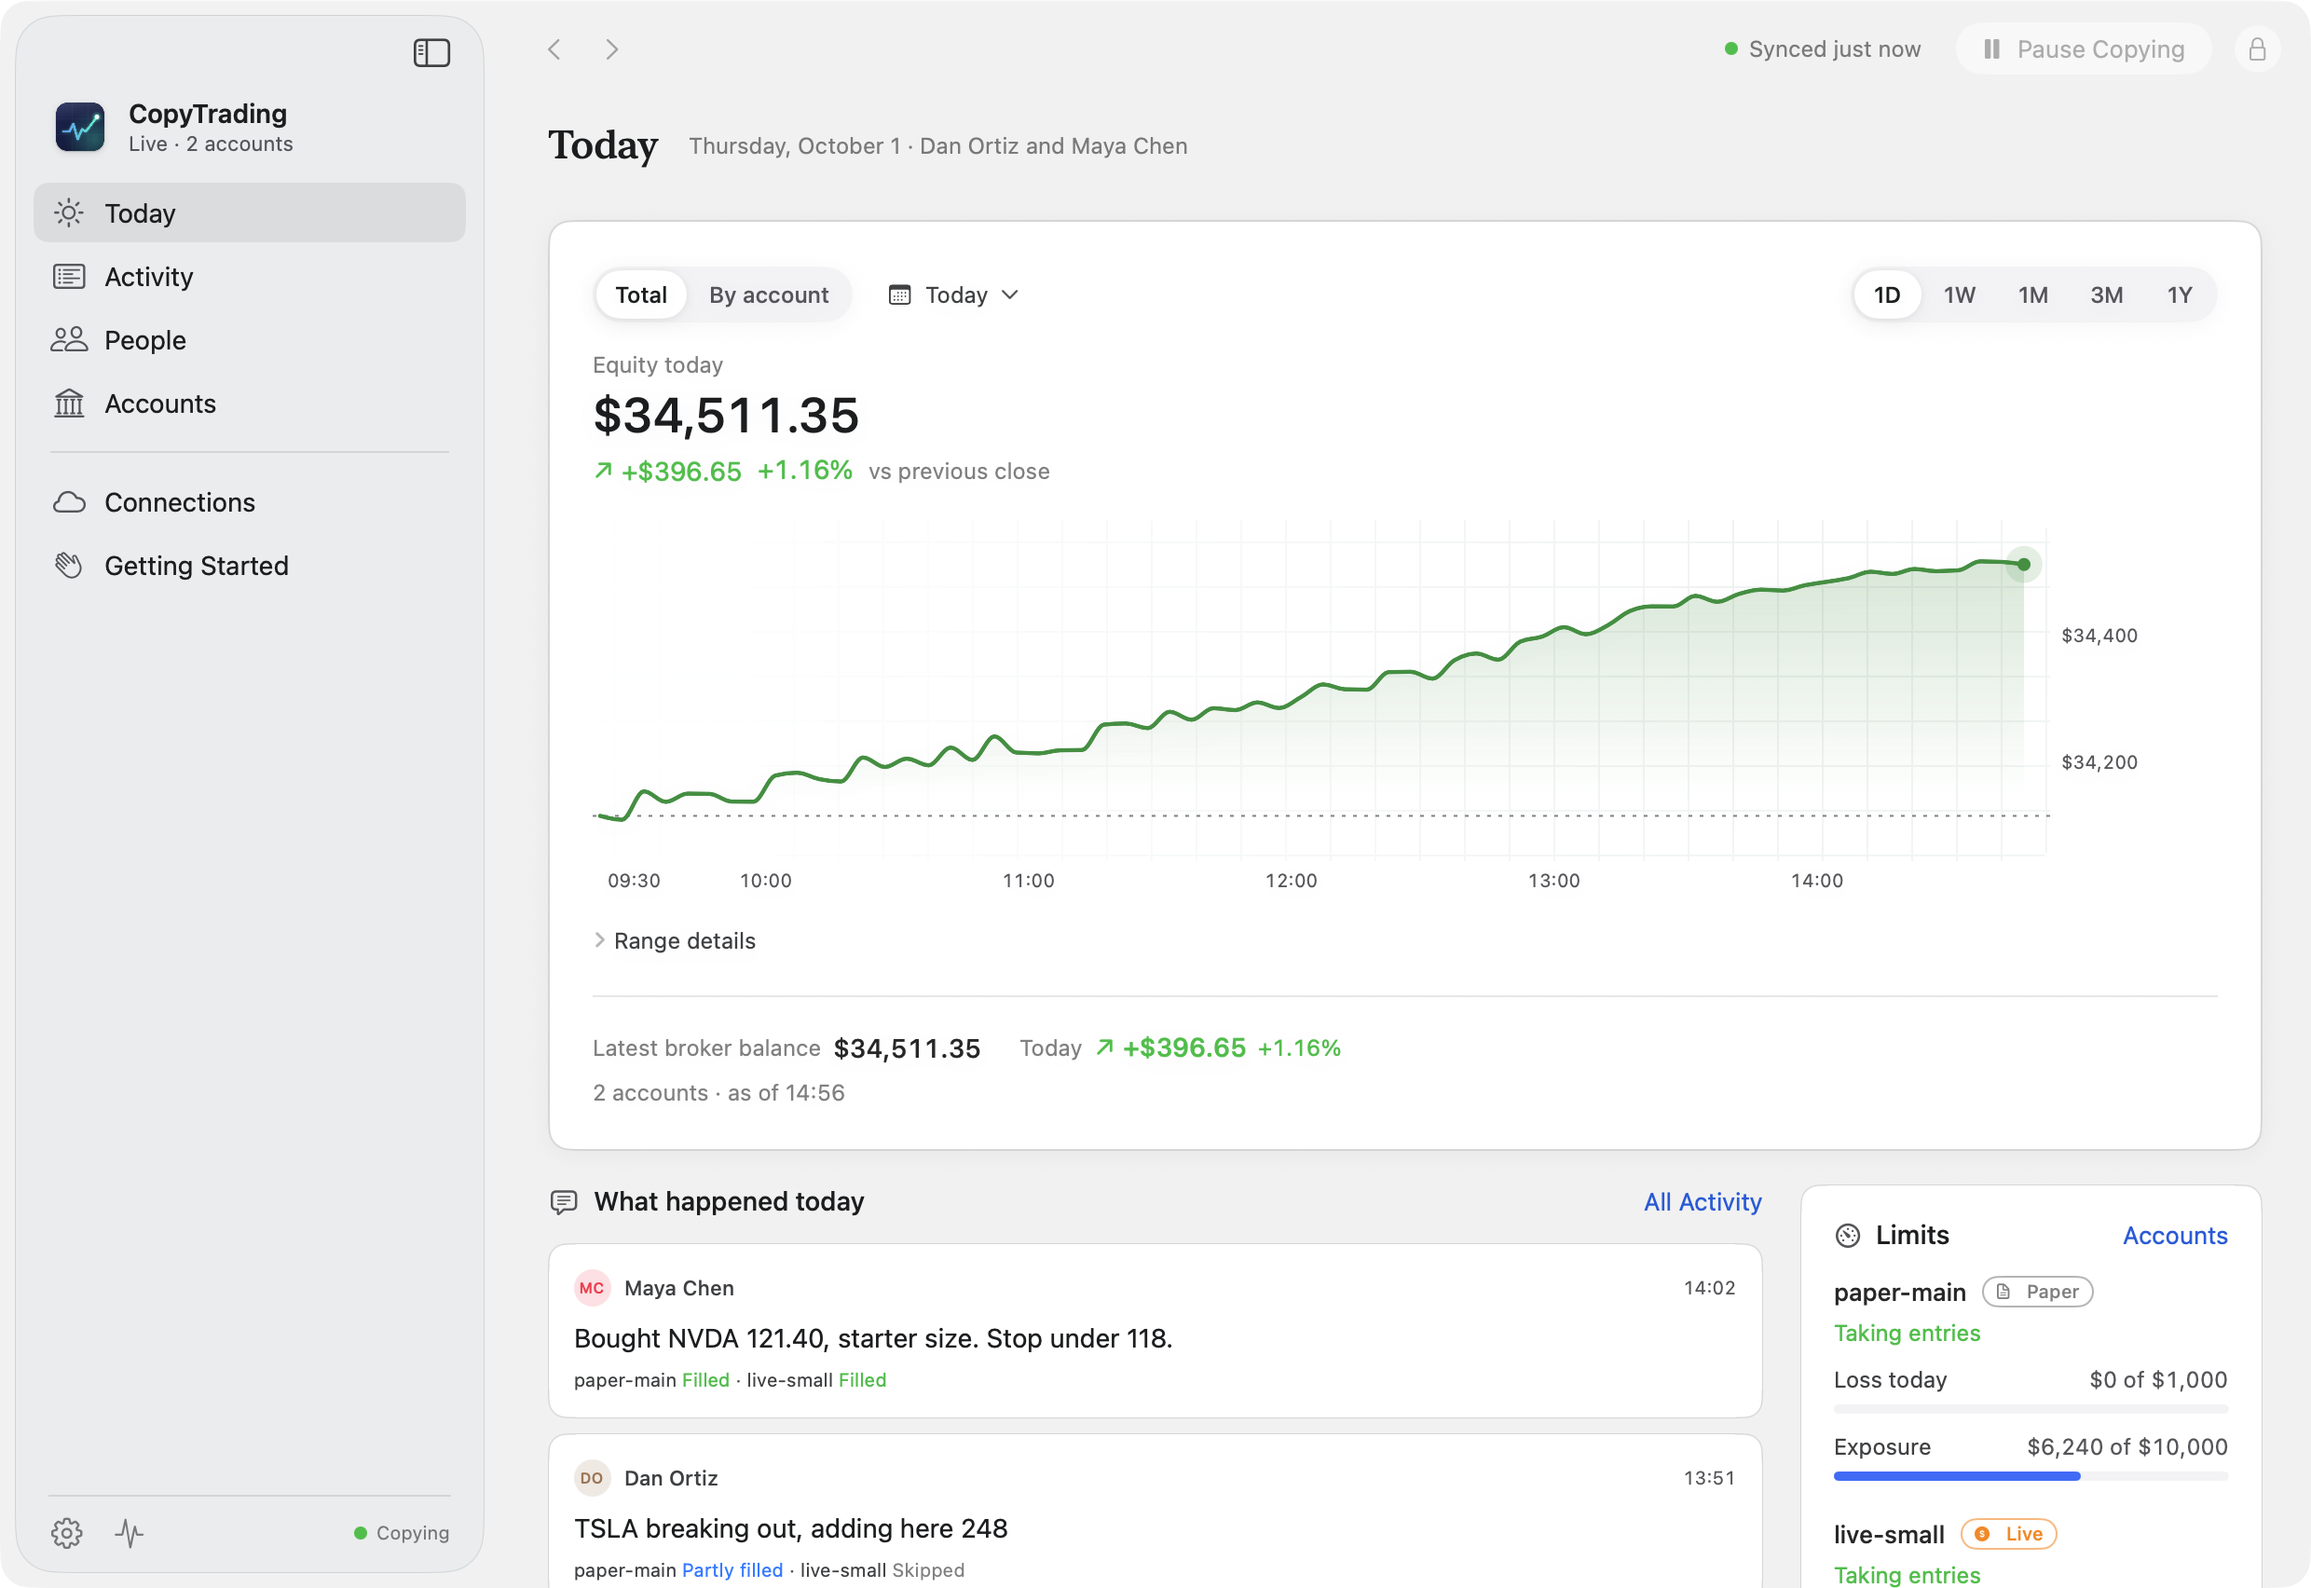
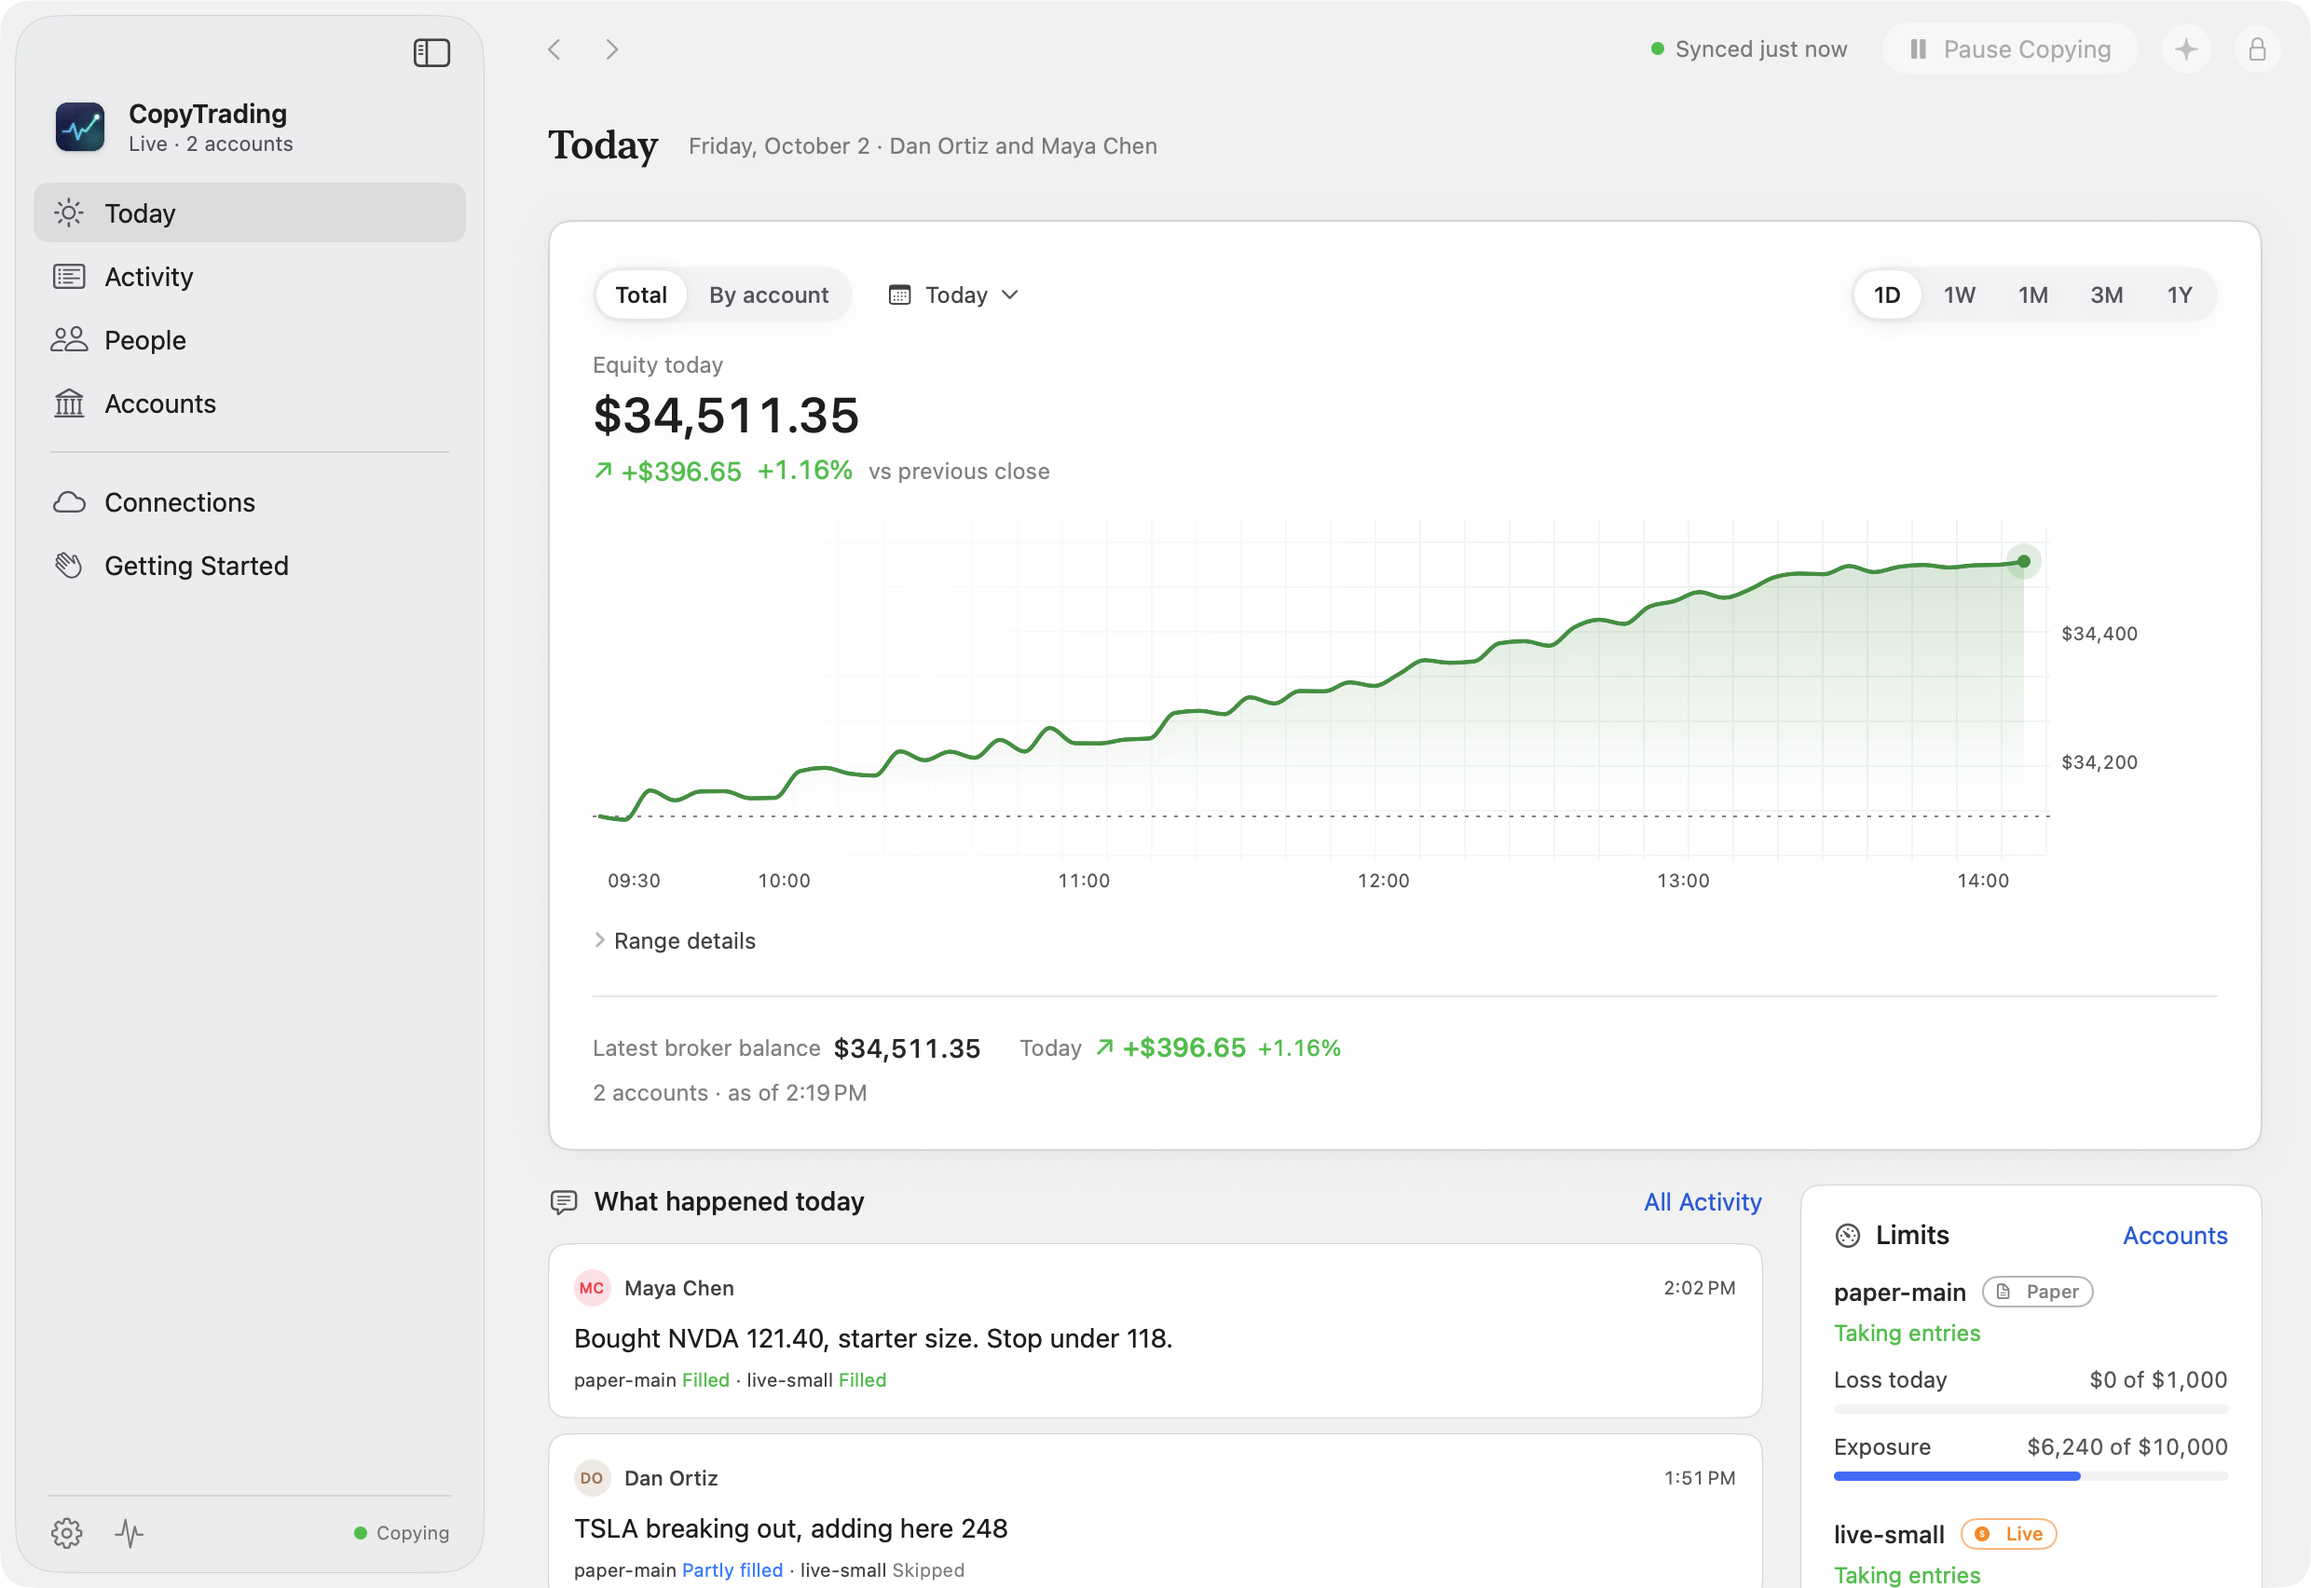
README: current screenshots, accurate wording, and no unused files (#7)
Re-rendered the English README screenshots from the current app (sample
data; adds the assistant button and current Accounts layout), says
preview builds are not yet notarized instead of unsigned, updates the
test count, and removes four files nothing references:
`app/Resources/Contracts/get-status.json`, the OpenObserve session
fixture, and the superseded `copytrading-workflow.png` / `.svg` (README
uses `-hq.png`). `make check` passes; all relative links in the 26
Markdown files resolve.

🤖 Generated with [Claude Code](https://claude.com/claude-code)

diff --git a/README.md b/README.md
@@ -60,7 +60,7 @@ Works with a dozen hosted model services, local models through Ollama, or any Op
 
 You need an Apple silicon Mac running macOS 26 or later.
 
-**Download** the latest preview from [Releases](https://github.com/YZXBiz/copytrading/releases), unzip it, then right-click the app and choose **Open**. Preview builds are unsigned, so macOS warns the first time. [Releases](docs/releases.md) explains how to verify the download.
+**Download** the latest preview from [Releases](https://github.com/YZXBiz/copytrading/releases), unzip it, then right-click the app and choose **Open**. Preview builds are not yet notarized by Apple, so macOS warns the first time. [Releases](docs/releases.md) explains how to verify the download.
 
 **Or build from source** with [uv](https://docs.astral.sh/uv/) and the Xcode Command Line Tools:
 
@@ -125,7 +125,7 @@ The engine also runs without the app, on a Mac or a Linux server, so copying con
 
 ## Contributing
 
-Run `make doctor` to check your Mac, then `make check` for the engine's 1,100+ tests, Ruff, and Ty. [CONTRIBUTING.md](CONTRIBUTING.md) covers the native app checks and conventions. Ask questions in [Discussions](https://github.com/YZXBiz/copytrading/discussions), report bugs with the [issue forms](https://github.com/YZXBiz/copytrading/issues/new/choose), and report vulnerabilities privately as described in [SECURITY.md](SECURITY.md).
+Run `make doctor` to check your Mac, then `make check` for the engine's 1,200+ tests, Ruff, and Ty. [CONTRIBUTING.md](CONTRIBUTING.md) covers the native app checks and conventions. Ask questions in [Discussions](https://github.com/YZXBiz/copytrading/discussions), report bugs with the [issue forms](https://github.com/YZXBiz/copytrading/issues/new/choose), and report vulnerabilities privately as described in [SECURITY.md](SECURITY.md).
 
 ## License
 
